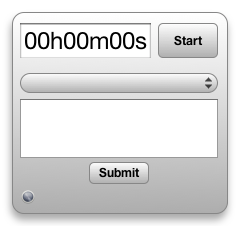
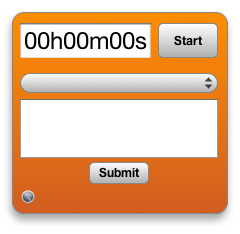
Change colours

diff --git a/basewatch.dcproj/project/widget.wdgt/main.html b/basewatch.dcproj/project/widget.wdgt/main.html
@@ -13,7 +13,7 @@
 </head>
 <body onload="load();" apple-part="com.apple.Dashcode.part.StackLayout">
     <div id="front">
-        <img id="frontImg" src="Parts/Images/front.png" alt="" apple-locked="true" apple-part="com.apple.Dashcode.part.frontimage" apple-style="image-theme: 1; image-shape: 3; image-opacity: 1.00; image-top-color: 1.0000,1.0000,1.0000; image-bottom-color: 0.6154,0.6154,0.6154; image-radius: 12,12,12,12; image-border: 1; image-border-color: 0.5294,0.5294,0.5294; image-border-width: 1; shine-strength: 0.9; shine-alpha-level: 0.67; shine-height: 0.50; glass-arc-height: 0.06; shadow-include-shadow: 1; shadow-blur: 9.00; shadow-offset: -1.00,-6.00; shadow-color: 0.0000,0.0000,0.0000,0.3333;">
+        <img id="frontImg" src="Parts/Images/front.png" alt="" apple-locked="true" apple-part="com.apple.Dashcode.part.frontimage" apple-style="image-theme: 1; image-shape: 3; image-opacity: 1.00; image-top-color: 0.988134205,0.476805478,0.0356278867,1; image-bottom-color: 0.767081559,0.280932456,0.0995547771,1; image-radius: 12,12,12,12; image-border: 1; image-border-color: 0.5294,0.5294,0.5294,1; image-border-width: 1; shine-strength: 0.90; shine-alpha-level: 0.67; shine-height: 0.50; glass-arc-height: 0.06; shadow-include-shadow: 1; shadow-offset: -1.00,-6.00; shadow-color: 0,0,0,0.3333;">
         <div class="apple-no-children" id="info" apple-part="com.apple.Dashcode.part.infobutton" apple-default-image-visibility="hidden"></div>
         <input id="timerTextField" type="text" name="" value="00h00m00s" class="apple-textfield apple-no-children" apple-part="com.apple.Dashcode.part.textfield" onclick="clickTimerTextField(event)" onchange="changeTimerTextField(event)">
         <div id="startStopButton" apple-part="com.apple.Dashcode.part.roundedtextbutton" class="apple-no-children" apple-style="image-theme: 1; image-shape: 3; image-button-type: 0; image-opacity: 1.00; image-top-color: 1,1,1,1; image-bottom-color: 0.6154,0.6154,0.6154,1; image-radius: 5,5,5,5; image-border: 1; image-border-color: 0.5294,0.5294,0.5294,1; image-border-width: 1; shine-strength: 0.90; shine-alpha-level: 0.67; shine-height: 0.50; glass-arc-height: 0.06; shadow-include-shadow: 0;"></div>

diff --git a/basewatch.dcproj/project/widget.wdgt/Parts/setup.js b/basewatch.dcproj/project/widget.wdgt/Parts/setup.js
@@ -14,7 +14,7 @@ var dashcodePartSpecs = {
     "submitButton": { "creationFunction": "CreateButton", "disabled": true, "leftImageWidth": 5, "onclick": "submitButtonClicked", "rightImageWidth": 5, "text": "Submit" },
     "text": { "text": "Basecamp URL:", "view": "DC.Text" },
     "text1": { "text": "Basecamp API Token:", "view": "DC.Text" },
-    "text2": { "text": "Basewatch 1.0", "view": "DC.Text" },
+    "text2": { "text": "Basewatch 1.1", "view": "DC.Text" },
     "text3": { "text": "Copyright 2010 Peter Zion", "view": "DC.Text" }
 };
 
